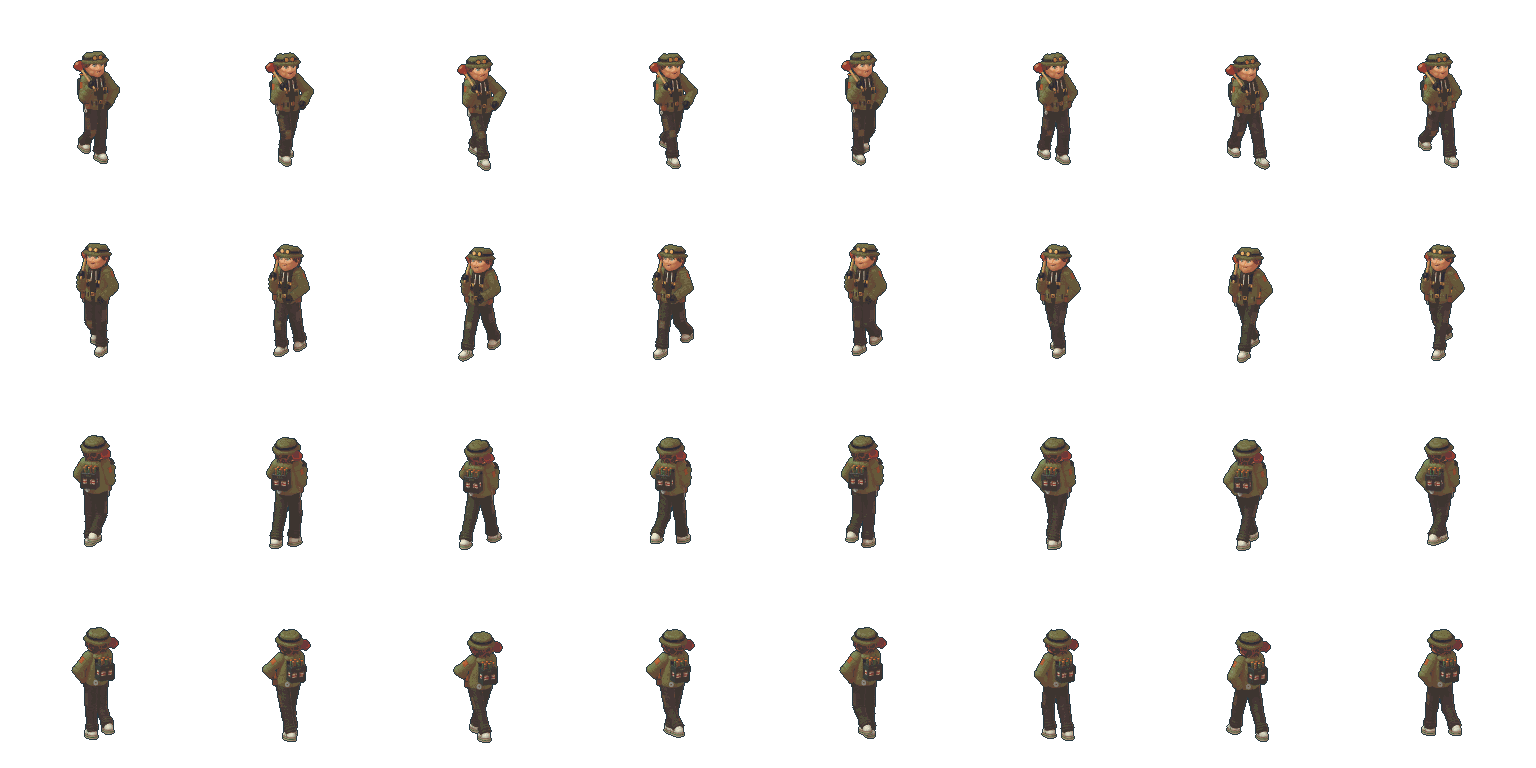
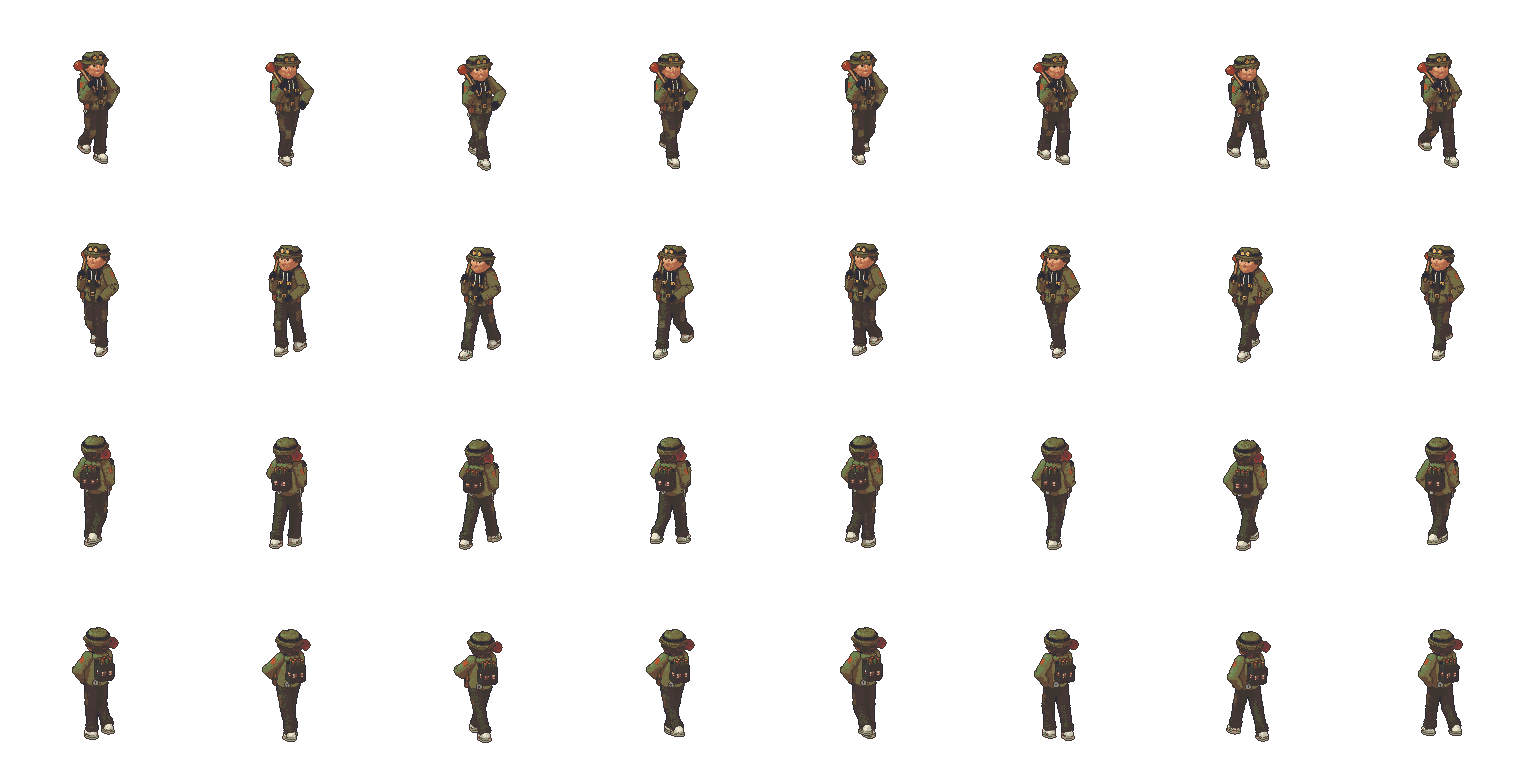
Pixelmaler statt verkleinertem 3D: Figuren mit Tonstufen, Linien, gefärbter Kontur und Gesichts-Stempeln (E-58)
Nutzerbefund: Ida wirkte wie billige 3D-Arbeit und zu alt. Renderer liefert für
Figuren einen G-Buffer; tools/sprite-forge/pixel.mjs malt harte Tonstufen je
Material, räumt Einzelpixel auf, zieht Linien an Tiefensprüngen und Knicken,
färbt die Kontur nach dem angrenzenden Material. Gesichter als Pixel-Stempel
(figure/stamps.mjs: feminin/maskulin), über die Kopfkoordinaten platziert.
Ida jünger/schlanker (Archetyp Schwungvoll schmaler), Lockenfrisur mit Dutt und
Stirnlocken. Alle Schmiede-Figuren neu gerendert (auch Stammgäste aus E-61).

diff --git a/precache-manifest.js b/precache-manifest.js
@@ -1,6 +1,6 @@
 // Generated by scripts/pwa-cache.mjs; release content hash.
 self.PRECACHE={
-  "version": "fb8710aaec330b9d",
+  "version": "424d166e341e7bce",
   "urls": [
     "activities.js",
     "admin-commands.js",

diff --git a/docs/SPRITE-SCHMIEDE.md b/docs/SPRITE-SCHMIEDE.md
@@ -124,6 +124,21 @@ Nutzerbefund: „sehr kalt statt warm und rund, es fehlen deutlich viele Details
 | Haar mit Büscheln | Warme dunkle Büschel (`#5a2412`), tieferes Strähnenrelief. Neuer Stil `locken`: seitliches Volumen, Locken rahmen das Gesicht. |
 | Ruhige Flächen | Die Schürze bekommt die Option `falten` (Ida .3), sonst wirken die Röhrenfalten in Spielgröße wie Schmutzstreifen. |
 
+### Pixelmaler statt verkleinertem 3D (Ida, zweiter Anlauf, 23.09.2026)
+
+Nutzerbefund nach Runde 9: „sieht nicht aus wie Pixellook, sondern durch die Flächen eher wie billige 3D-Arbeit“. Neuer Ansatz: Der Renderer liefert für Figuren nur noch einen G-Buffer (`renderScene(…, {gbuffer:true})`: Material, Helligkeit, Farbtreppe, Normale, Tiefe und Kopfkoordinaten je Pixel, ein Abtastpunkt, keine Mittelung). Das eigentliche Bild malt `tools/sprite-forge/pixel.mjs`:
+
+1. **Tonstufen** statt Verläufen: wenige harte Töne je Material. `CONTRAST` spreizt die Helligkeit je Material um die Mitte (Haut und Haar stärker).
+2. **Cluster:** Einzelpixel gehen im Mehrheitston auf.
+3. **Linien:** Bei einem Tiefensprung zwischen Teilen und an scharfen Knicken entsteht eine Linie im dunklen Ton des hinteren Materials.
+4. **Kontur:** Die Außenkontur ist in der dunkelsten Stufe des angrenzenden Materials gefärbt, zum warmen Dunkelbraun gezogen (statt Schiefertinte).
+5. **Gesichts-Stempel** (`figure/stamps.mjs`, `face.stamp: 'feminin' | 'maskulin'`):
+   - Der Pixelmaler findet Augen, Brauen, Nase, Mund und Wangen über die Kopfkoordinaten der Gesichtshaut und setzt dort handgezeichnete Pixelvorlagen.
+   - Das nähere Auge wird voll gezeichnet, das fernere verkürzt. Verdeckung durch Haar oder Bart ergibt sich von selbst.
+   - Neue Stempel sind die Gesichtsoptionen des Charaktereditors.
+
+`FIGURE_STYLE={painter:true, pitch:15, exposure:.84}`. Die alte Malstufe (Doppelauflösung, Kantenlicht) bleibt über `renderScene` wählbar.
+
 **Vergleichswerkzeug** (im Scratchpad der Sitzung, schnell neu zu bauen): Original und Schmiede als Grundhaltung se/sw nebeneinander, 4× vergrößert und 1×, dazu ein Kopfausschnitt 8×. Der Posenbogen jedes `--dry`-Laufs liegt unter `visual-review/forge/bogen/<name>-<id>.png`.
 
 ## Figuren (Körperteile zum Wiederverwenden)
